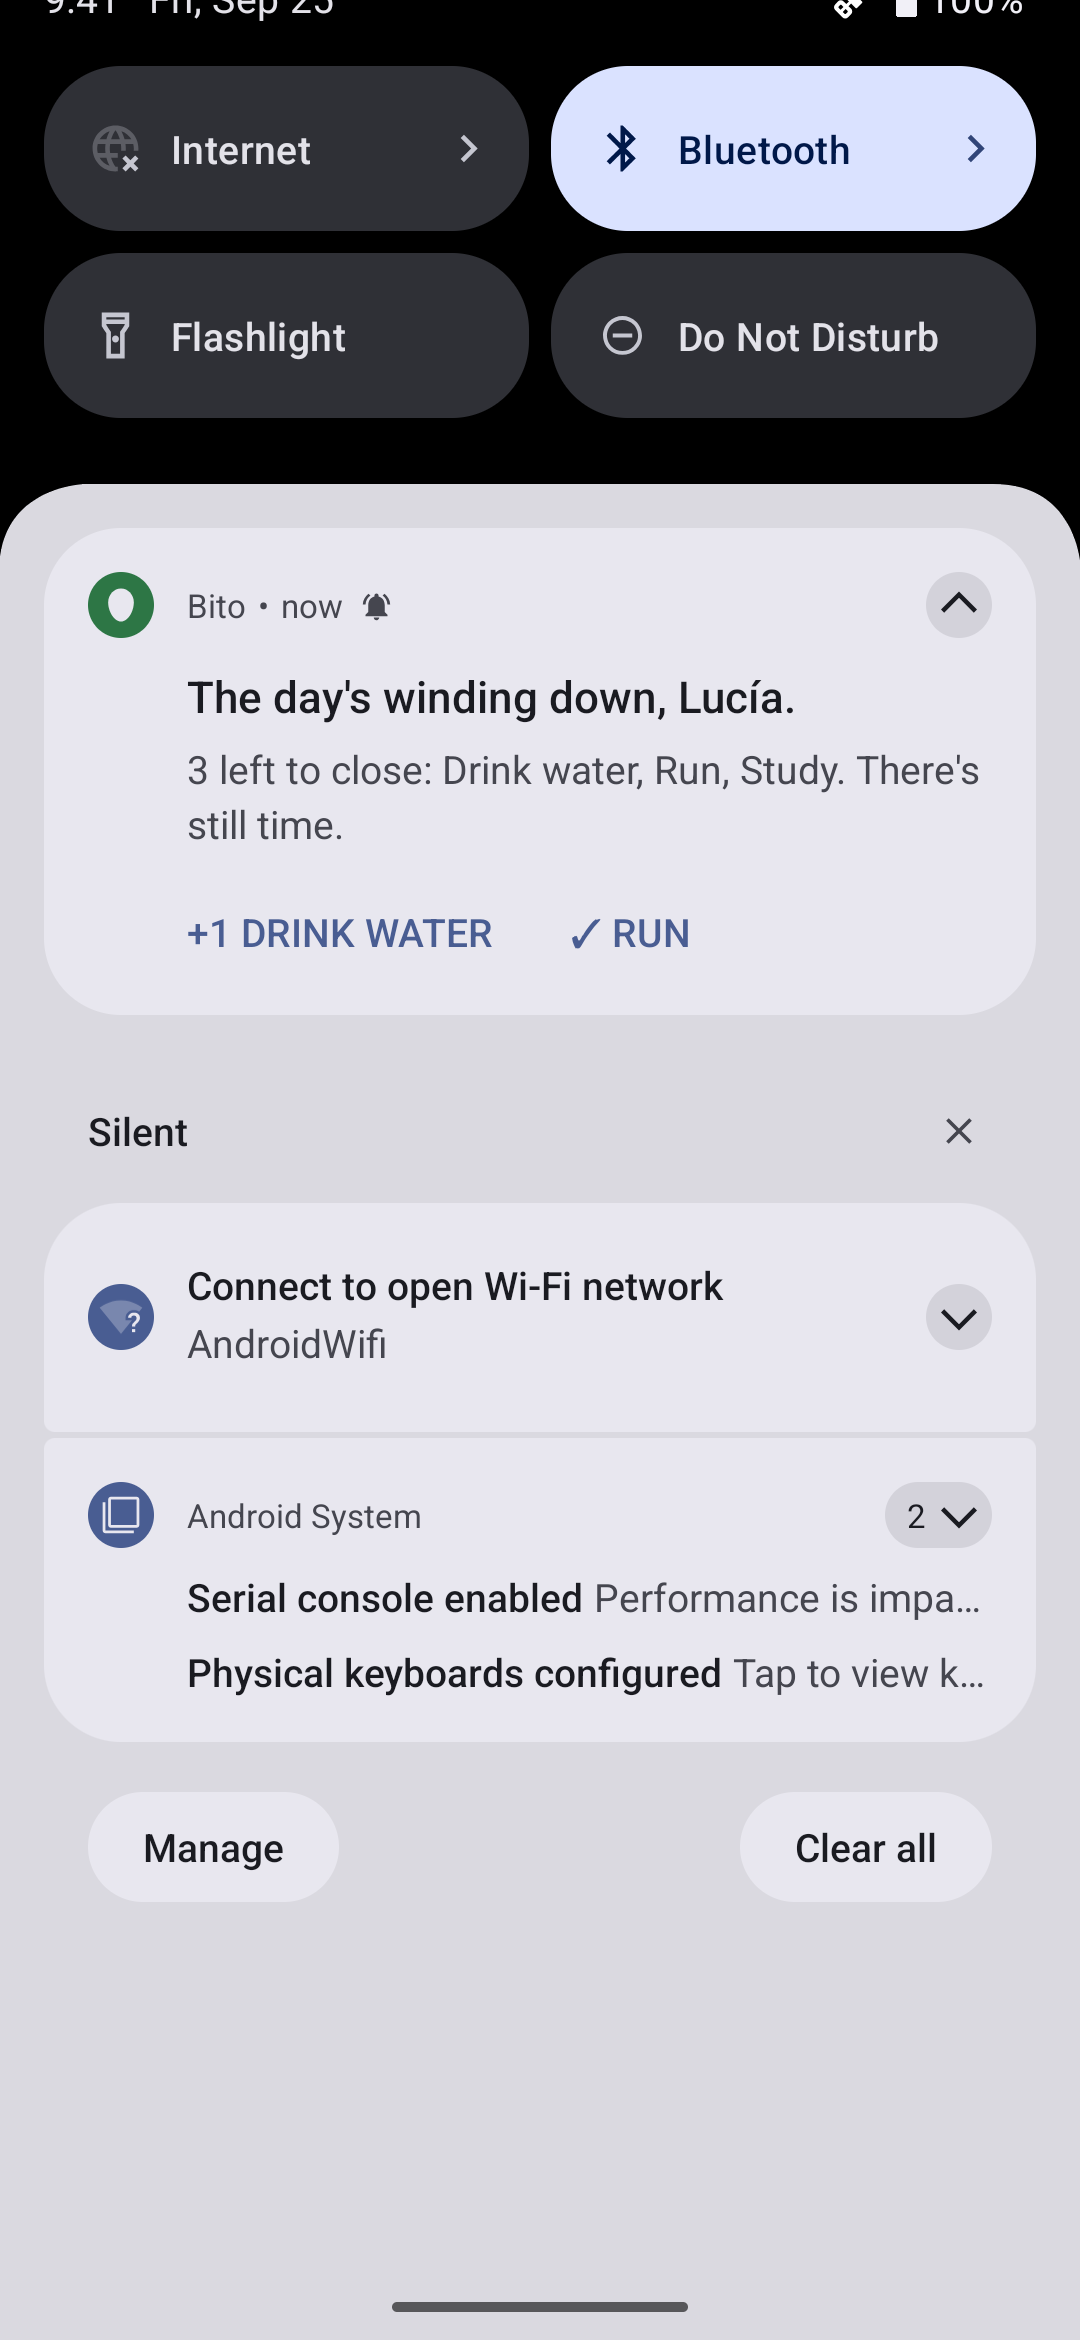
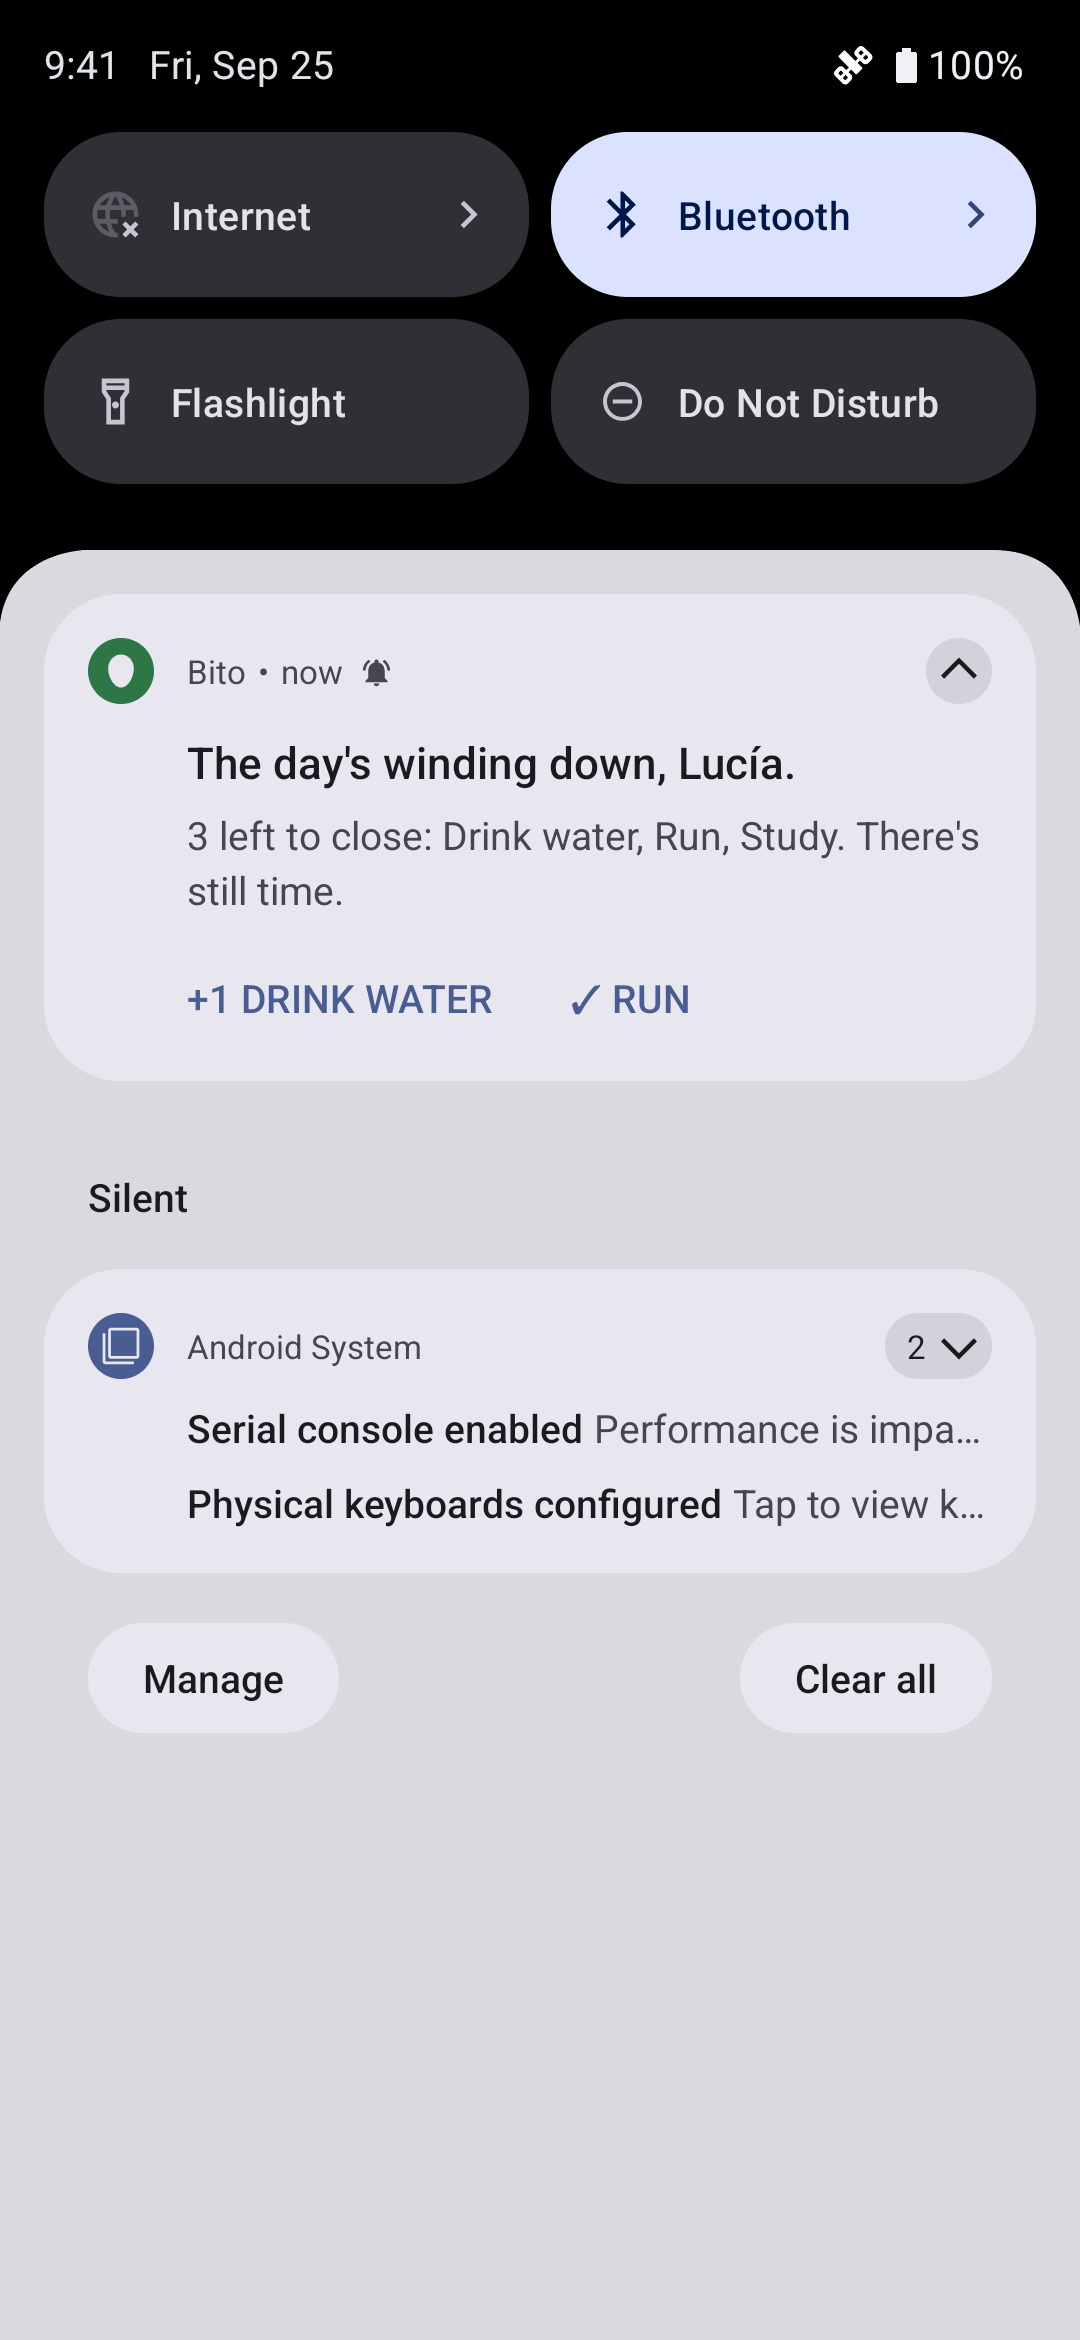
fix(video): notificacion conserva la cabecera de la persiana y sin avisos del sistema
Para notificacion se recorta desde arriba (se quitan los 66 px de abajo) y, mientras se captura, se apagan el aviso de depuracion USB y el wifi; despues se restauran. El aviso de Sistema Android (consola en serie y teclados fisicos) no se puede descartar y sigue apareciendo.

Claude-Session: https://claude.ai/code/session_01La2bxxwQG8rKRZhctLggti

diff --git a/video/shots/run_shots.py b/video/shots/run_shots.py
@@ -33,6 +33,7 @@ SCREENS = [
 ]
 DEEP_LINKS = {"repaso": "review", "tareas": "tasks", "foco": "tasks"}
 BEST_EFFORT = {"widget", "notificacion"}
+CROP_FROM_TOP = {"notificacion"}
 PAPEL_SCREENS = set(SCREENS) - {"widget", "notificacion", "foco", "tienda"}
 ATTEMPTS = 2
 NOTIFICATION_WAIT_S = 240
@@ -63,6 +64,8 @@ def notification_posted() -> bool:
 def before(screen: str, lang: str) -> bool:
     d.shell("cmd statusbar collapse", check=False)
     if screen == "notificacion":
+        d.shell("settings put global adb_notify 0", check=False)
+        d.shell("svc wifi disable", check=False)
         subprocess.run([sys.executable, str(HERE / "prepare.py"), "--lang", lang, "--arm-reminder", "2"], check=True)
         deadline = time.monotonic() + NOTIFICATION_WAIT_S
         while not notification_posted():
@@ -81,6 +84,13 @@ def before(screen: str, lang: str) -> bool:
     return True
 
 
+def after(screen: str) -> None:
+    d.shell("cmd statusbar collapse", check=False)
+    if screen == "notificacion":
+        d.shell("svc wifi enable", check=False)
+        d.shell("settings put global adb_notify 1", check=False)
+
+
 def capture(screen: str, lang: str, labels: dict[str, str], top: int, bottom: int) -> str:
     out = PUBLIC / lang / f"{screen}.png"
     raw = RAW / lang / f"{screen}.png"
@@ -89,14 +99,17 @@ def capture(screen: str, lang: str, labels: dict[str, str], top: int, bottom: in
     for attempt in range(1, ATTEMPTS + 1):
         if before(screen, lang) and run_maestro(screen, labels):
             raw.write_bytes(d.screencap())
-            crop.crop_raw(raw, out, top, bottom)
+            if screen in CROP_FROM_TOP:
+                crop.crop_raw(raw, out, 0, top + bottom)
+            else:
+                crop.crop_raw(raw, out, top, bottom)
             if screen not in PAPEL_SCREENS or crop.top_row_is_papel(out):
-                d.shell("cmd statusbar collapse", check=False)
+                after(screen)
                 return "ok"
             print(f"run_shots: {lang}/{screen} intento {attempt}: la fila superior no es Papel", file=sys.stderr)
         else:
             print(f"run_shots: {lang}/{screen} intento {attempt} fallido", file=sys.stderr)
-    d.shell("cmd statusbar collapse", check=False)
+    after(screen)
     fallback = FALLBACK / lang / f"{screen}.png"
     if screen in BEST_EFFORT and fallback.exists():
         crop.check_final(fallback)
